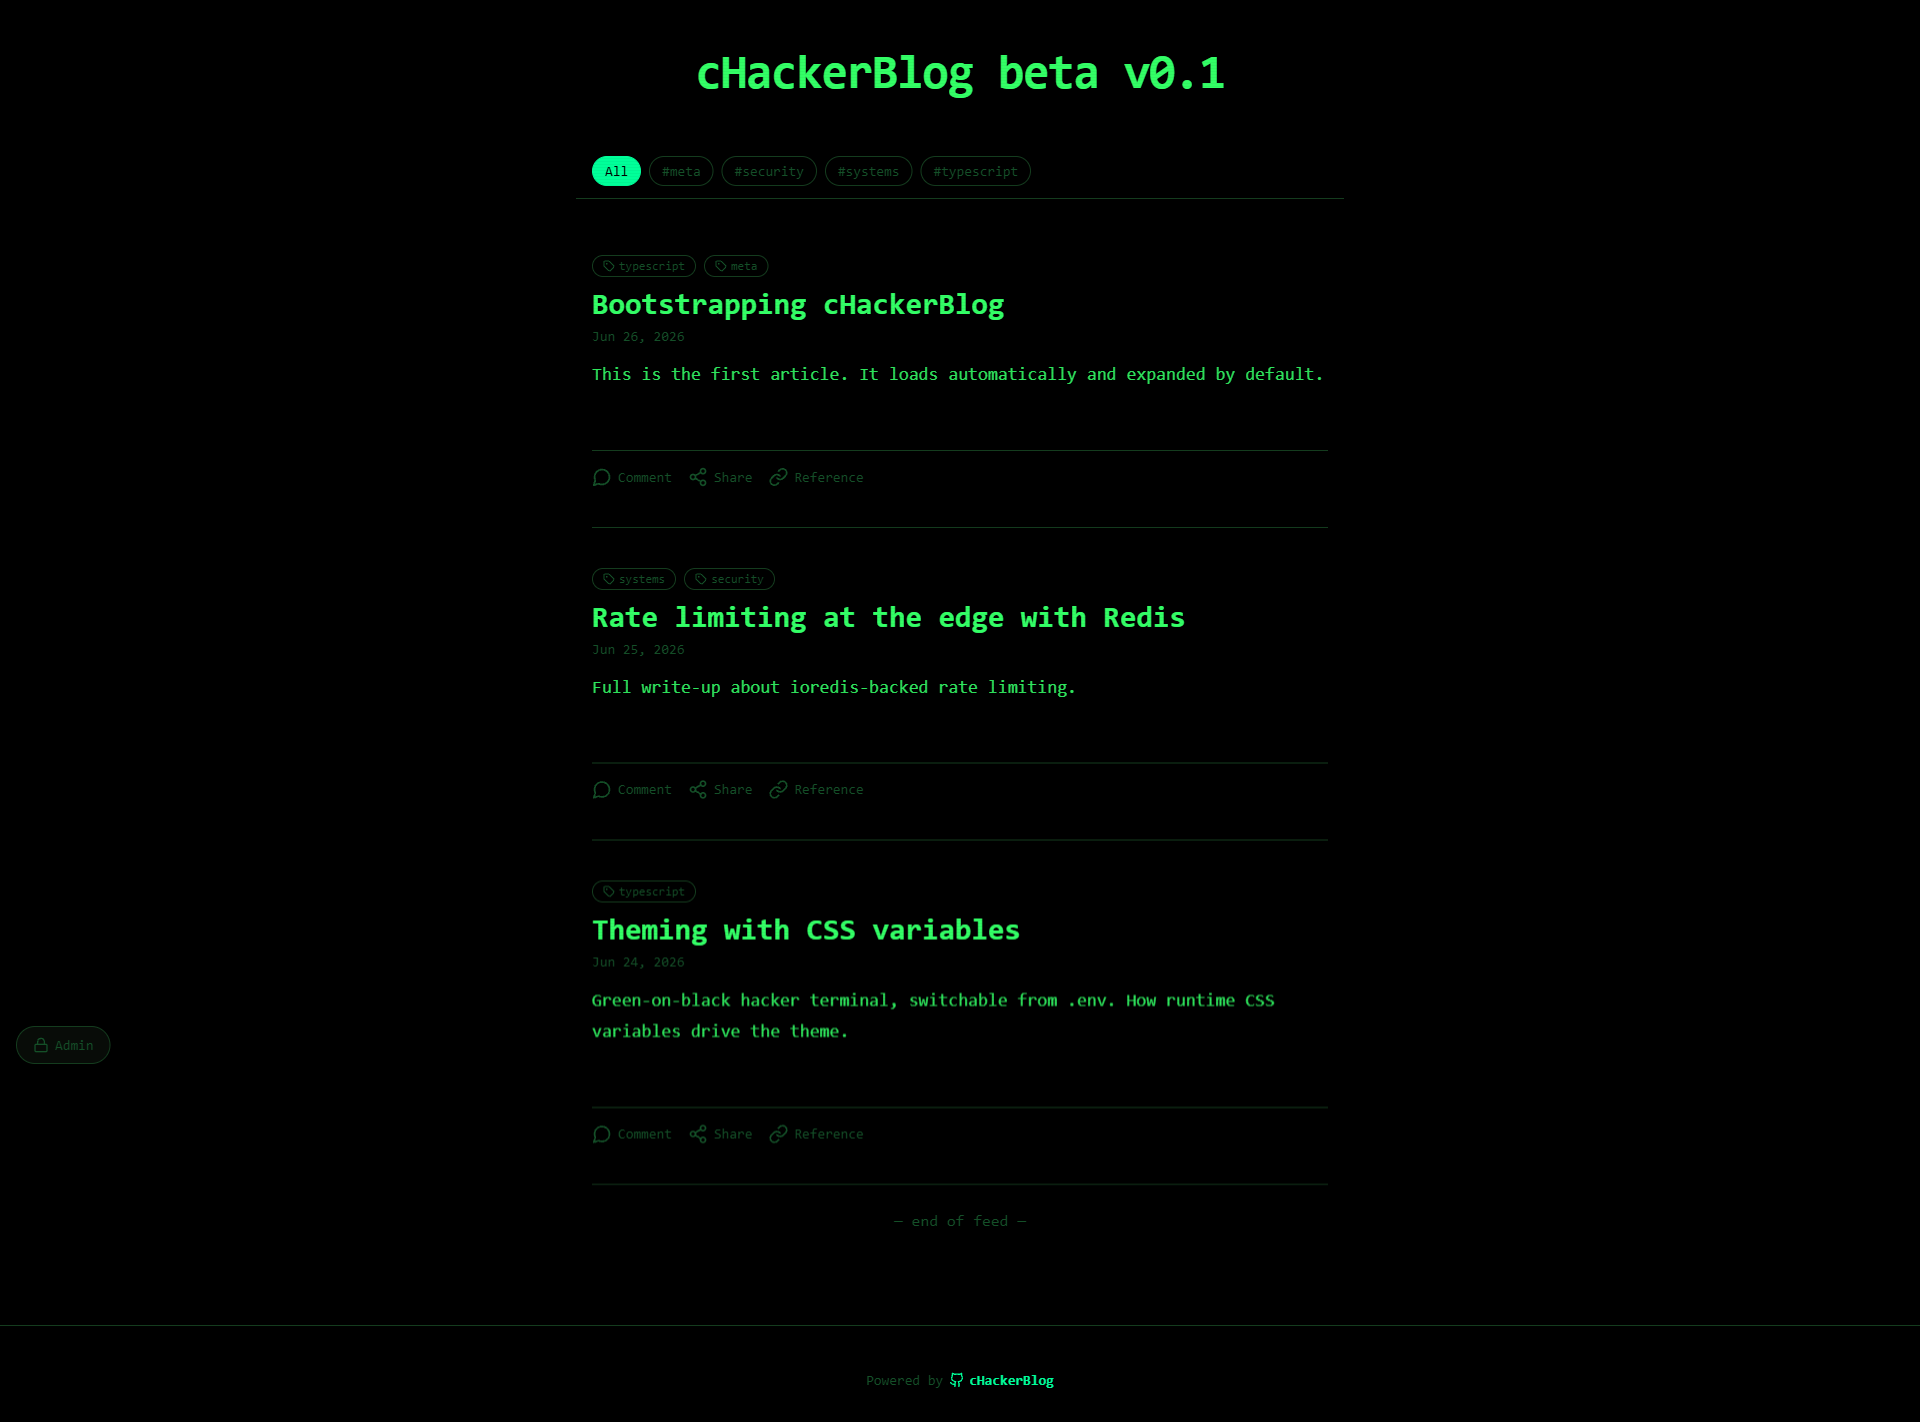
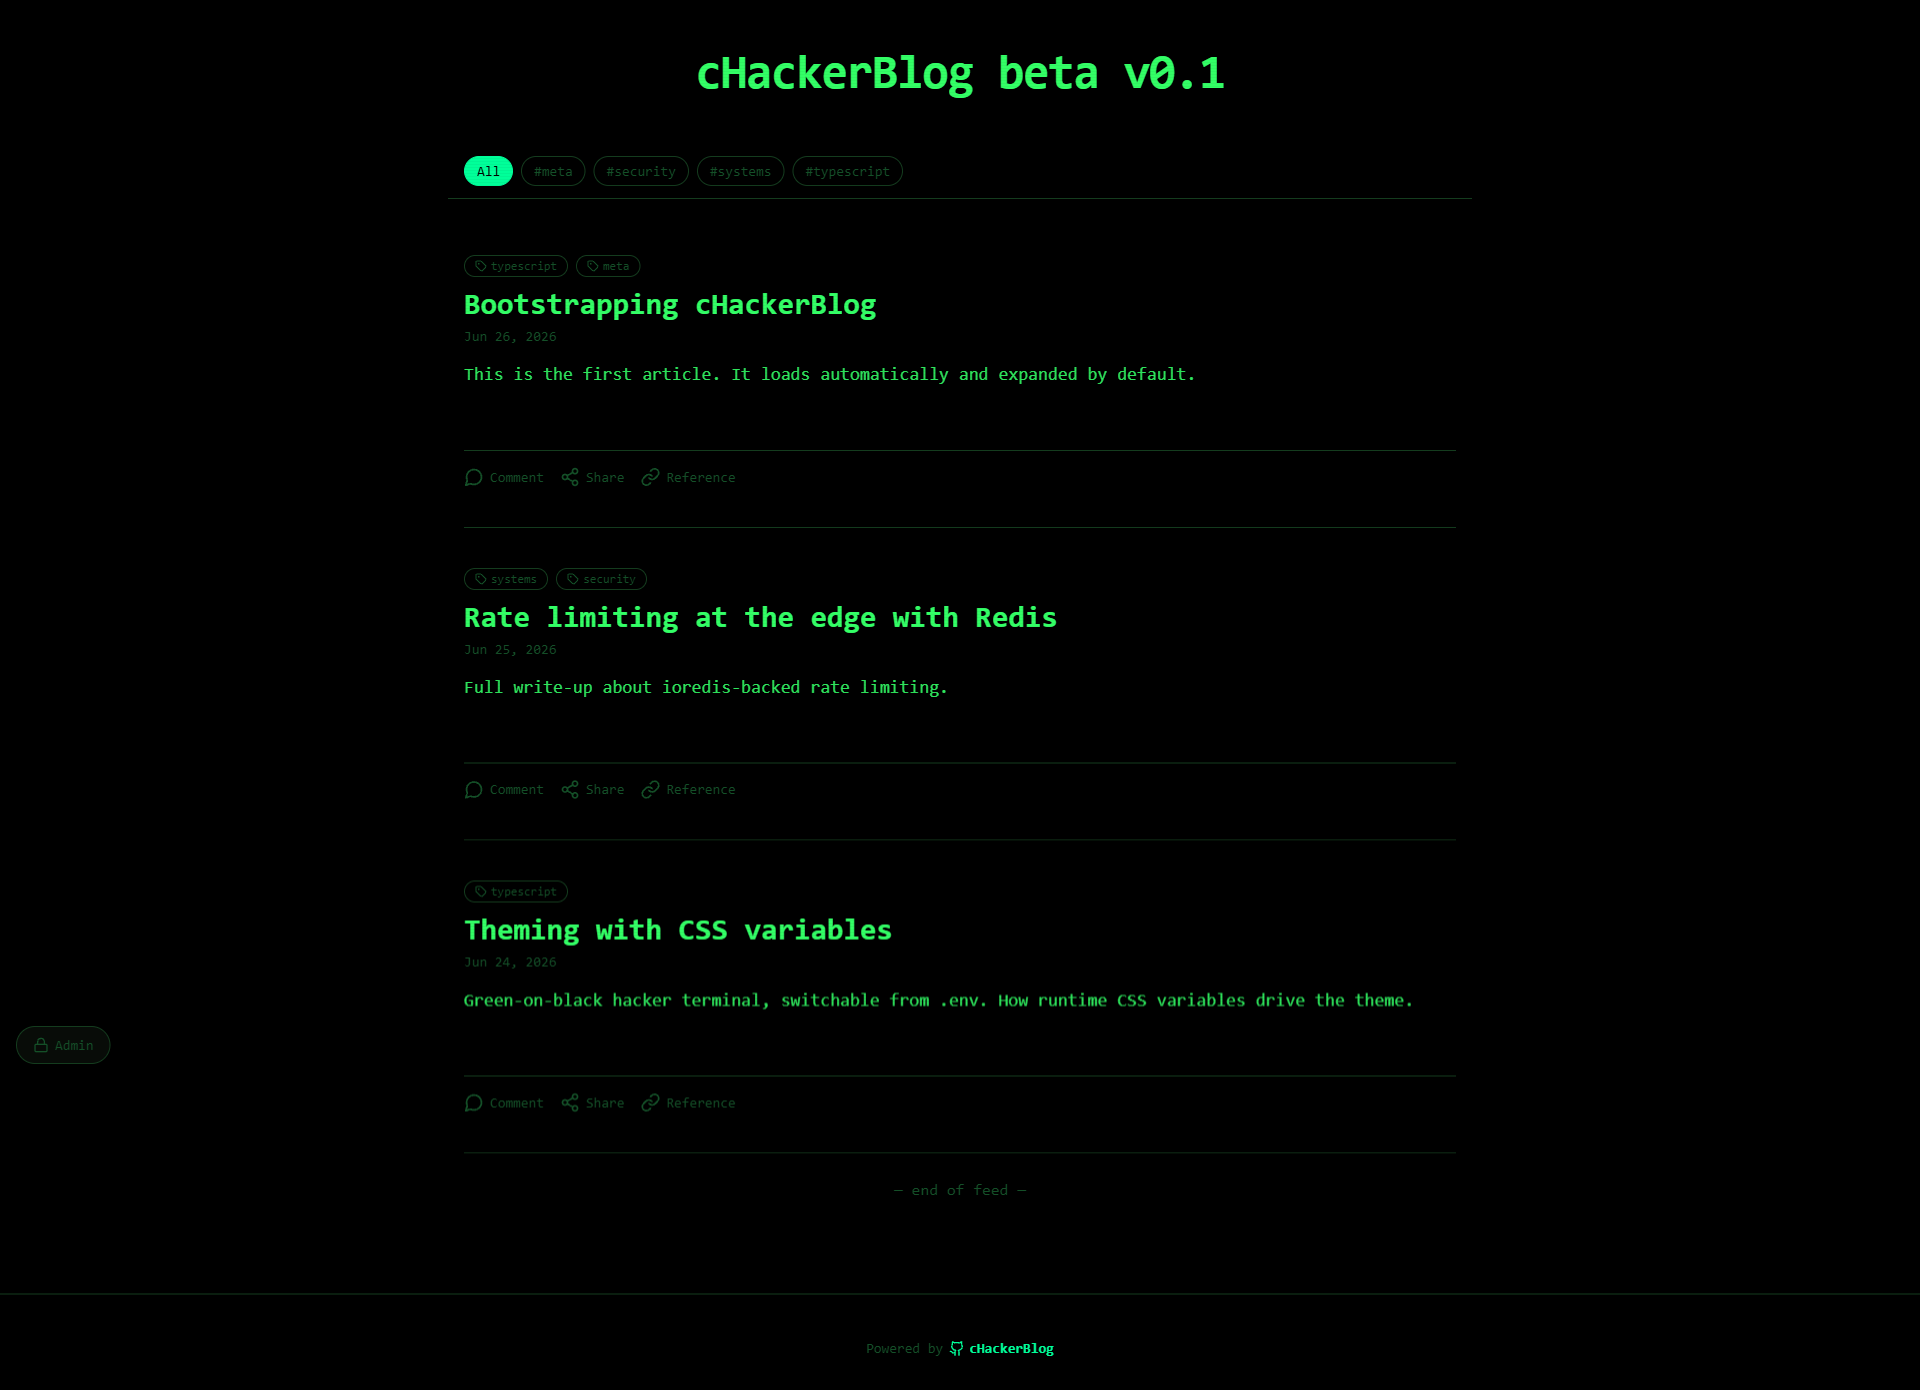
Adjust max width

diff --git a/src/app/page.tsx b/src/app/page.tsx
@@ -19,7 +19,7 @@ export default async function HomePage() {
   const [initialPage, tags] = await Promise.all([getFeed({}), listAllTags()]);
 
   return (
-    <main className="mx-auto max-w-3xl px-4">
+    <main className="mx-auto max-w-5xl px-4">
       <header className="py-12 text-center">
         {settings.coverUrl && (
           // eslint-disable-next-line @next/next/no-img-element